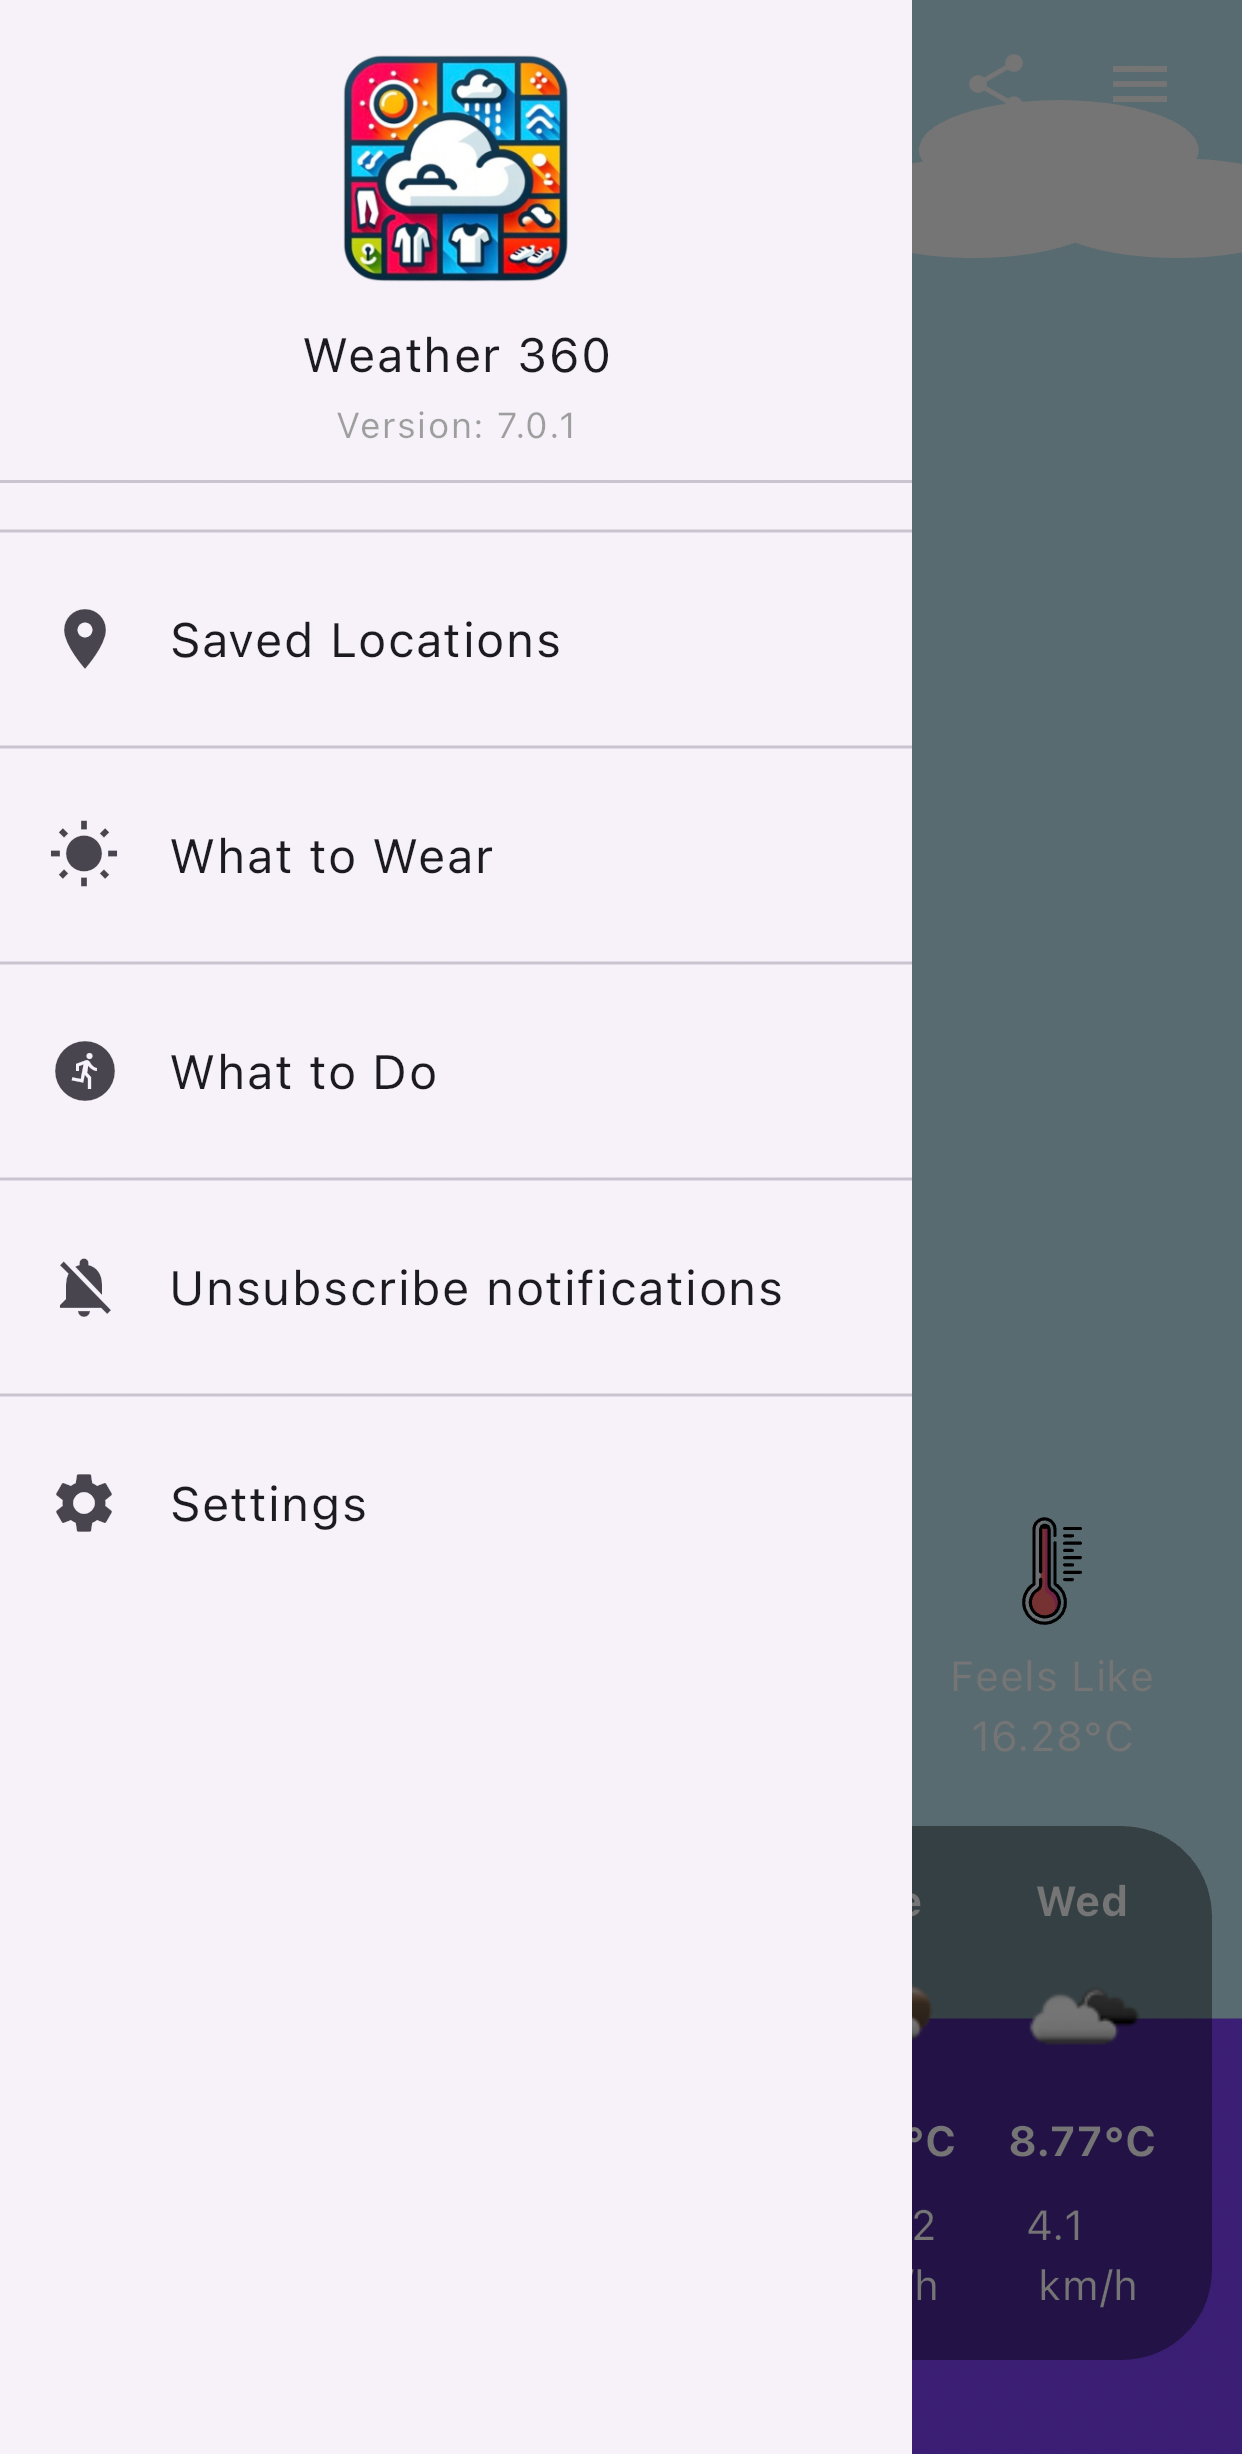
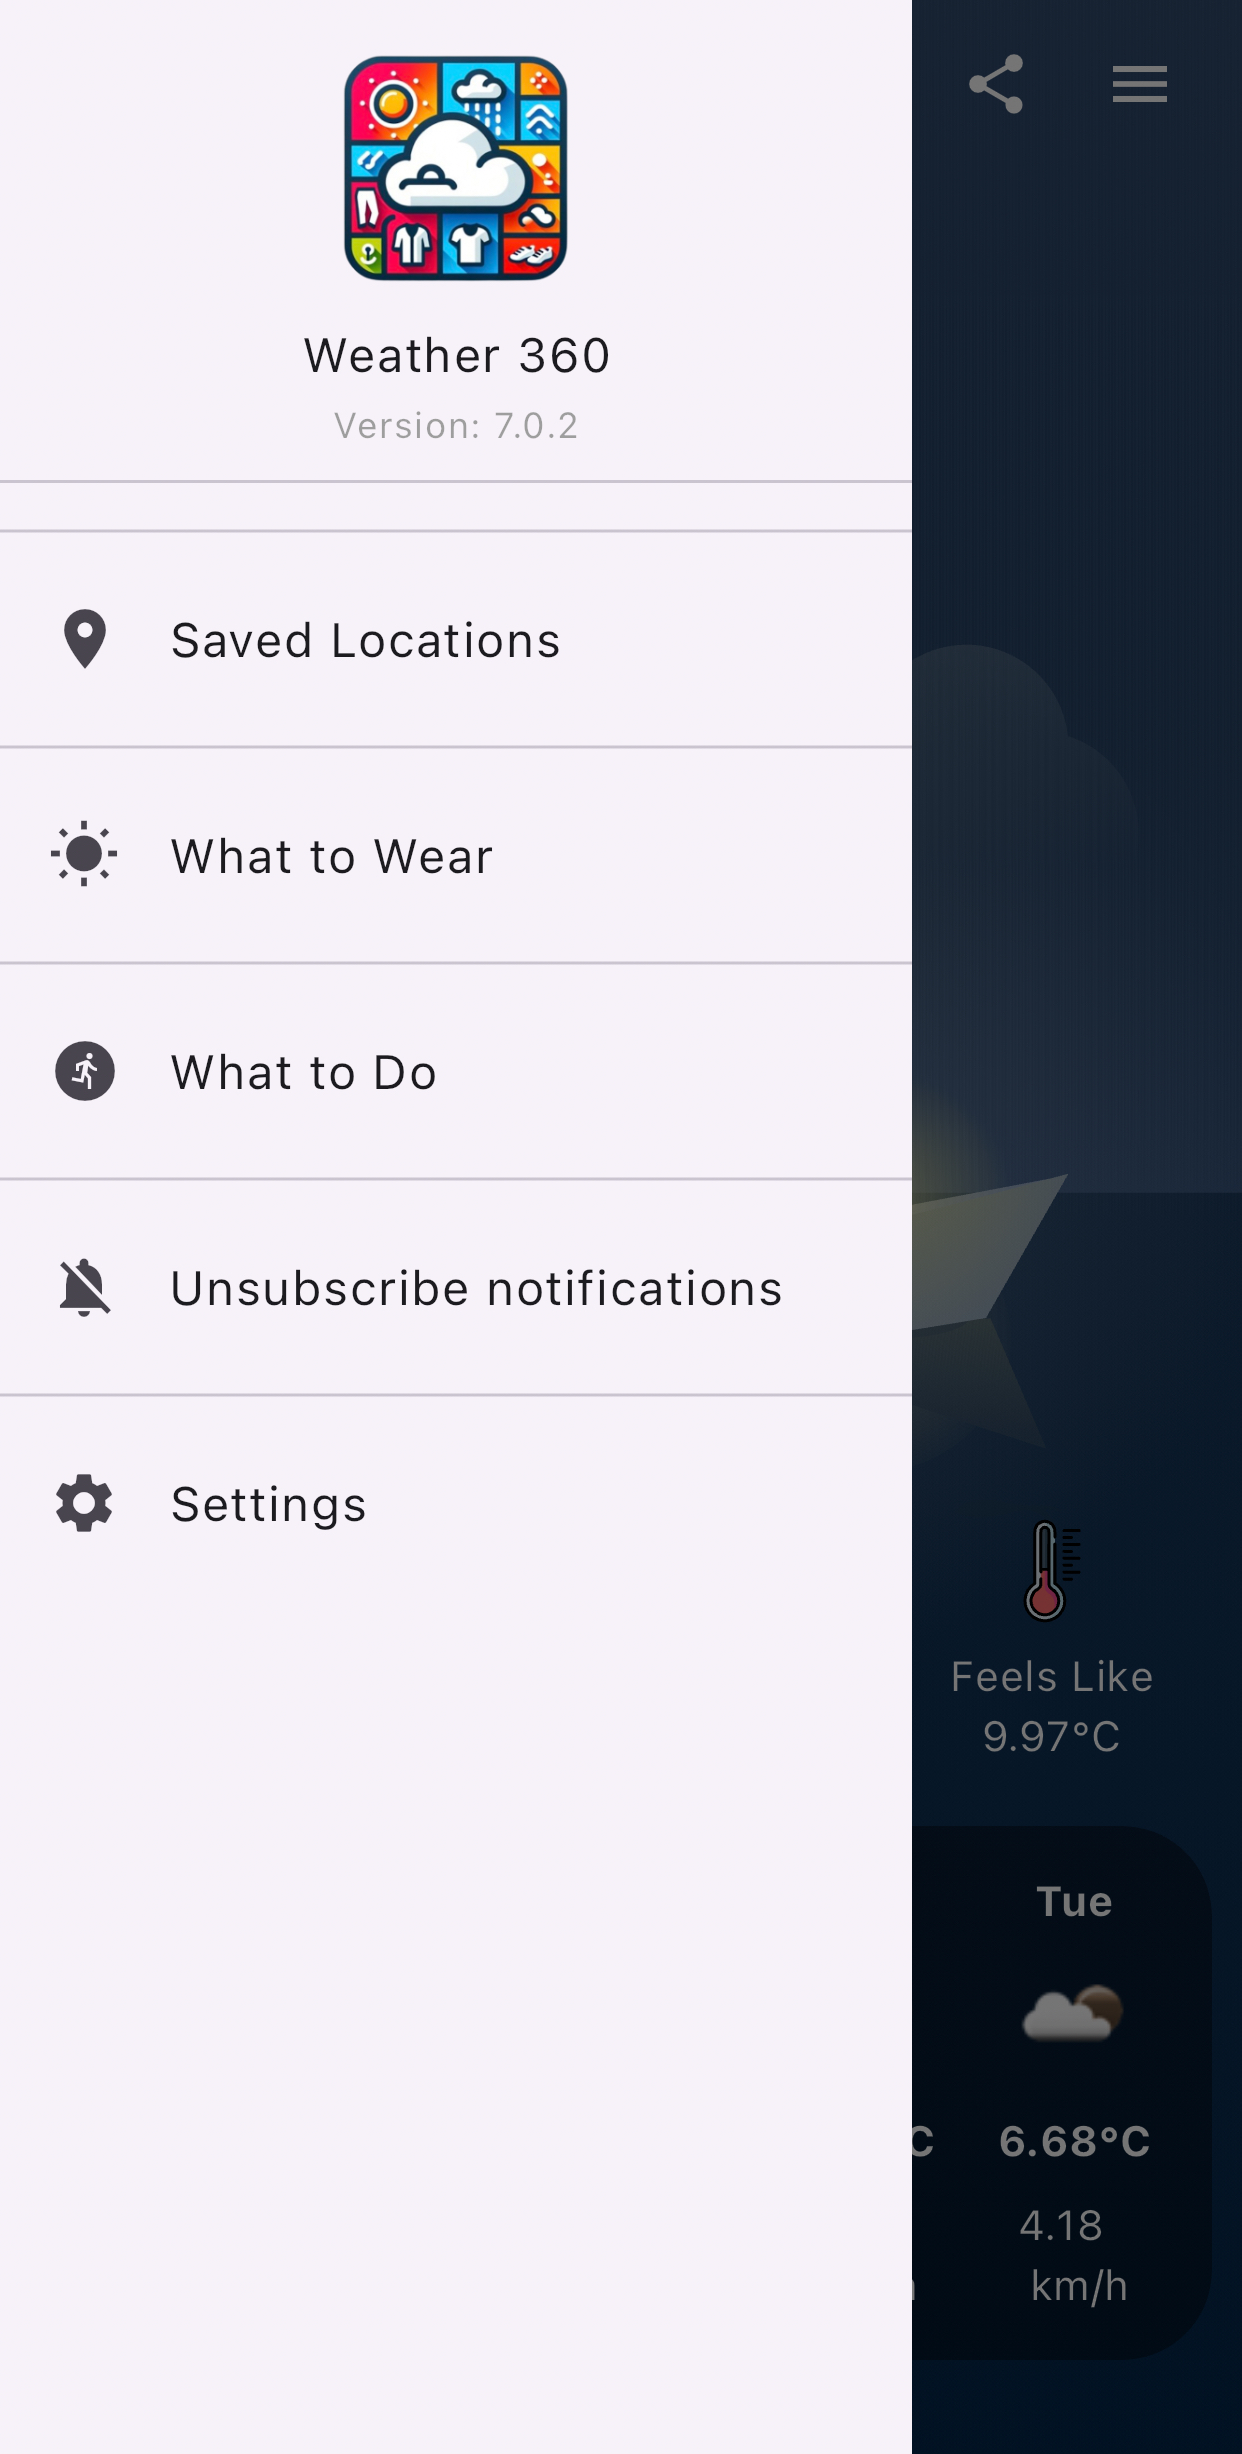
bug fixes for google play

Changed region(s): [[0.7343, 0.0, 1.0, 1.0], [0.2754, 0.1548, 0.3671, 0.1858], [0.3977, 0.1548, 0.4589, 0.1858]]

diff --git a/lib/screens/selectedcity_screen.dart b/lib/screens/selectedcity_screen.dart
@@ -44,8 +44,14 @@ class _CitySelectionScreenState extends State<CitySelectionScreen> {
         }
 
         if (selectedCities.isNotEmpty) {
-          final random = Random();
-          selectedCity = selectedCities[random.nextInt(selectedCities.length)];
+          String newSelectedCity;
+          do {
+            final random = Random();
+            newSelectedCity =
+                selectedCities[random.nextInt(selectedCities.length)];
+          } while (newSelectedCity == cityToRemove);
+
+          selectedCity = newSelectedCity;
           setLastSelectedCity(selectedCity!);
 
           fetchWeatherForCity(selectedCity!);
@@ -347,124 +353,114 @@ class _CitySelectionScreenState extends State<CitySelectionScreen> {
                         : 1,
                     itemBuilder: (context, index) {
                       if (index == selectedCities.length) {
-                        return Dismissible(
-                          key: ValueKey("add_new"),
-                          child: Stack(
-                            children: [
-                              Padding(
-                                padding: const EdgeInsets.only(
-                                    left: 20, right: 20, top: 15, bottom: 50),
-                                child: Container(
-                                  decoration: BoxDecoration(
-                                      color: const Color.fromRGBO(
-                                          170, 165, 165, 0.7),
-                                      borderRadius: BorderRadius.circular(30)),
-                                  child: ListTile(
-                                    title: const Center(
-                                      child: Row(
-                                        mainAxisAlignment:
-                                            MainAxisAlignment.center,
-                                        children: [
-                                          Icon(
-                                            Icons.add_circle_outline,
+                        return Stack(
+                          key: ValueKey('add new'),
+                          children: [
+                            Padding(
+                              padding: const EdgeInsets.only(
+                                  left: 20, right: 20, top: 15, bottom: 50),
+                              child: Container(
+                                decoration: BoxDecoration(
+                                    color: const Color.fromRGBO(
+                                        170, 165, 165, 0.7),
+                                    borderRadius: BorderRadius.circular(30)),
+                                child: ListTile(
+                                  title: const Center(
+                                    child: Row(
+                                      mainAxisAlignment:
+                                          MainAxisAlignment.center,
+                                      children: [
+                                        Icon(
+                                          Icons.add_circle_outline,
+                                          color: Colors.white,
+                                        ),
+                                        SizedBox(width: 5),
+                                        Text(
+                                          'Add New',
+                                          style: TextStyle(
                                             color: Colors.white,
+                                            fontWeight: FontWeight.bold,
+                                            fontSize: 20,
                                           ),
-                                          SizedBox(width: 5),
-                                          Text(
-                                            'Add New',
-                                            style: TextStyle(
-                                              color: Colors.white,
-                                              fontWeight: FontWeight.bold,
-                                              fontSize: 20,
-                                            ),
-                                          ),
-                                        ],
-                                      ),
+                                        ),
+                                      ],
                                     ),
-                                    onTap: () async {
-                                      if (selectedCities.length < maxCities) {
-                                        final selectedCity = await showSearch(
-                                          context: context,
-                                          delegate: CitySearchDelegate(),
-                                        );
-                                        if (selectedCity != null) {
-                                          setState(() {
-                                            if (!selectedCities
-                                                .contains(selectedCity)) {
-                                              saveSelectedCities(
-                                                  selectedCities);
-                                              selectedCities.add(selectedCity);
-                                              fetchWeatherForCity(selectedCity);
-                                              fetchFiveDayForecast();
+                                  ),
+                                  onTap: () async {
+                                    if (selectedCities.length < maxCities) {
+                                      final selectedCity = await showSearch(
+                                        context: context,
+                                        delegate: CitySearchDelegate(),
+                                      );
+                                      if (selectedCity != null) {
+                                        setState(() {
+                                          if (!selectedCities
+                                              .contains(selectedCity)) {
+                                            saveSelectedCities(selectedCities);
+                                            selectedCities.add(selectedCity);
+                                            fetchWeatherForCity(selectedCity);
+                                            fetchFiveDayForecast();
 
-                                              setLastSelectedCity(selectedCity);
+                                            setLastSelectedCity(selectedCity);
 
-                                              fetchFiveDayForecast();
-                                            } else {
-                                              ScaffoldMessenger.of(context)
-                                                  .showSnackBar(
-                                                SnackBar(
-                                                  content: Text(
-                                                    '$selectedCity is already in the list.',
-                                                    style: const TextStyle(
-                                                        color: Colors.white,
-                                                        fontSize: 17),
-                                                  ),
-                                                  backgroundColor: Colors.red,
+                                            fetchFiveDayForecast();
+                                          } else {
+                                            ScaffoldMessenger.of(context)
+                                                .showSnackBar(
+                                              SnackBar(
+                                                content: Text(
+                                                  '$selectedCity is already in the list.',
+                                                  style: const TextStyle(
+                                                      color: Colors.white,
+                                                      fontSize: 17),
                                                 ),
-                                              );
-                                            }
-                                          });
-                                        }
-                                      } else {
-                                        ScaffoldMessenger.of(context)
-                                            .showSnackBar(
-                                          SnackBar(
-                                            content: Text(
-                                              'You have reached the maximum limit of $maxCities cities. Remove one or choose a different city.',
-                                              style: const TextStyle(
-                                                  color: Colors.white),
-                                            ),
-                                            backgroundColor: Colors.red,
-                                          ),
-                                        );
+                                                backgroundColor: Colors.red,
+                                              ),
+                                            );
+                                          }
+                                        });
                                       }
-                                    },
-                                  ),
+                                    } else {
+                                      ScaffoldMessenger.of(context)
+                                          .showSnackBar(
+                                        SnackBar(
+                                          content: Text(
+                                            'You have reached the maximum limit of $maxCities cities. Remove one or choose a different city.',
+                                            style: const TextStyle(
+                                                color: Colors.white),
+                                          ),
+                                          backgroundColor: Colors.red,
+                                        ),
+                                      );
+                                    }
+                                  },
                                 ),
                               ),
-                              Positioned(
-                                bottom: 0,
-                                right: 0,
-                                child: TextButton(
-                                  onPressed: () {
-                                    launchUrl(
-                                      Uri.parse(
-                                        'https://docs.google.com/document/d/1b0KkCUpEP7qoyiw0bf-AJKPJ-Dkb9PeomYUEUwk4VyY/edit?usp=sharing',
-                                      ),
-                                    );
-                                  },
-                                  child: Padding(
-                                    padding: const EdgeInsets.only(
-                                        right: 15, bottom: 15),
-                                    child: Text(
-                                      'Privacy Policy',
-                                      style: TextStyle(
-                                        color: Colors.blue[300],
-                                      ),
+                            ),
+                            Positioned(
+                              bottom: 0,
+                              right: 0,
+                              child: TextButton(
+                                onPressed: () {
+                                  launchUrl(
+                                    Uri.parse(
+                                      'https://docs.google.com/document/d/1b0KkCUpEP7qoyiw0bf-AJKPJ-Dkb9PeomYUEUwk4VyY/edit?usp=sharing',
+                                    ),
+                                  );
+                                },
+                                child: Padding(
+                                  padding: const EdgeInsets.only(
+                                      right: 15, bottom: 15),
+                                  child: Text(
+                                    'Privacy Policy',
+                                    style: TextStyle(
+                                      color: Colors.blue[300],
                                     ),
                                   ),
                                 ),
                               ),
-                            ],
-                          ),
-                          onDismissed: (direction) async {
-                            if (direction == DismissDirection.endToStart) {
-                              await showConfirmDismissDialog(
-                                  context, "Add New");
-                            }
-                          },
-                          background: Container(),
+                            ),
+                          ],
                         );
                       } else {
                         final city = selectedCities[index];

diff --git a/lib/screens/weather_screen.dart b/lib/screens/weather_screen.dart
@@ -294,12 +294,11 @@ class _WeatherPageState extends State<WeatherPage> with WidgetsBindingObserver {
         int hour = selectedTime.hour;
         int minute = selectedTime.minute;
 
-        DateTime now = DateTime.now();
+        await fetchFiveDayForecast();
+
         Weather currentForecast = fiveDayForecast.firstWhere(
           (forecast) =>
-              forecast.date!.day == now.day &&
-              forecast.date!.month == now.month &&
-              forecast.date!.year == now.year,
+              forecast.date!.hour == hour && forecast.date!.minute == minute,
           orElse: () => fiveDayForecast.first,
         );
 
@@ -741,7 +740,7 @@ class _WeatherPageState extends State<WeatherPage> with WidgetsBindingObserver {
                         const Text('Weather 360'),
                         SizedBox(height: 3),
                         Text(
-                          'Version: 7.0.1',
+                          'Version: 7.0.2',
                           style: TextStyle(
                             fontSize: 12,
                             color: Colors.grey,
